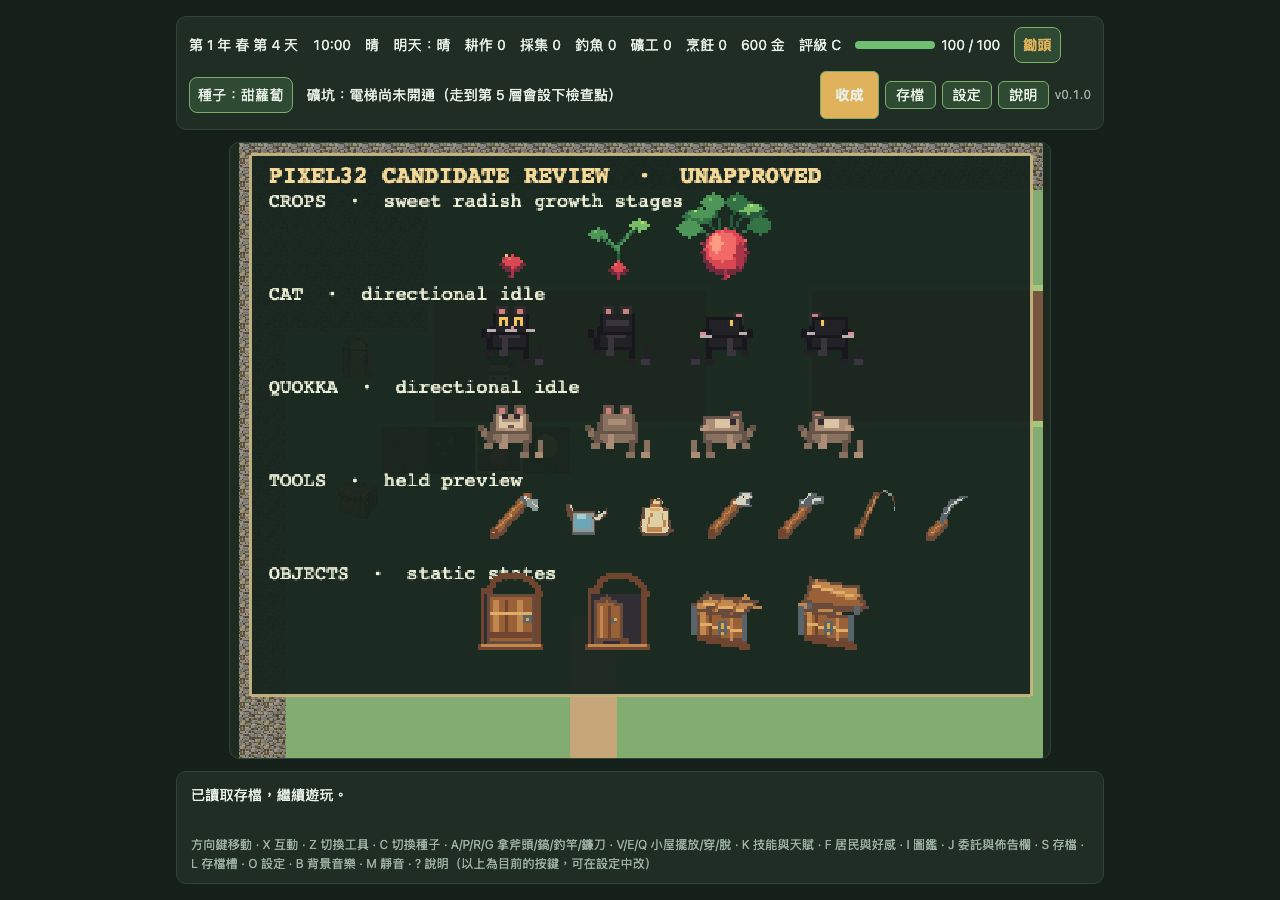
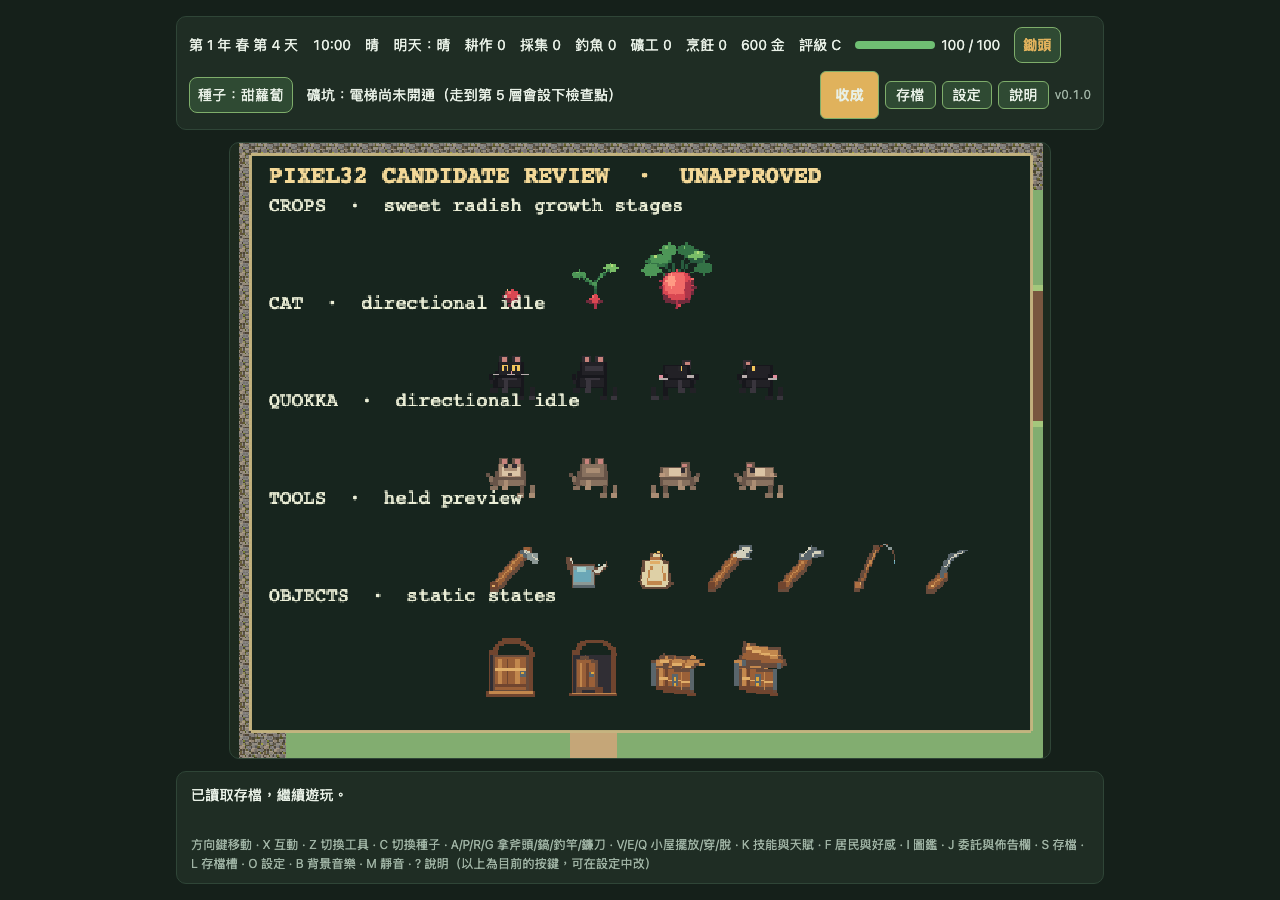
fix: separate candidate preview labels and sprites
* fix: separate candidate preview labels and sprites

* docs: refresh candidate review layout evidence

* fix: clamp candidate animation elapsed times

diff --git a/src/presentation/scenes/MapScene.ts b/src/presentation/scenes/MapScene.ts
@@ -309,7 +309,7 @@ declare global {
       /** DEV-only, unapproved pixel32 map overlay fixture. */
       pixel32CandidateOverlays(): { enabled: boolean; overlays: Pixel32OverlayDebugInfo[] };
       /** DEV-only contact sheet for unapproved crops, pet directions, held tools, and object states. */
-      candidateAssetReview(): { enabled: boolean; items: Array<{ group: string; frame: string; texture: string; x: number; y: number; scale: number }>; limitations: string[] };
+      candidateAssetReview(): { enabled: boolean; items: Array<{ group: string; frame: string; texture: string; x: number; y: number; labelY: number; scale: number }>; limitations: string[] };
       setCandidateAssetReviewVisible(visible: boolean): void;
       /** 玩家目前的走路姿勢（見 walk-pose.ts）。 */
       pose(): { y: number; rotation: number; scaleX: number; scaleY: number; legA: number; legB: number; stretch: number };
@@ -363,7 +363,7 @@ export class MapScene extends Phaser.Scene {
   private pixel32CandidateSprite: Phaser.GameObjects.Image | null = null;
   private pixel32CandidateRuntime = false;
   private pixel32CandidateAssets = false;
-  private pixel32CandidateReviewItems: Array<{ group: string; frame: string; texture: string; x: number; y: number; scale: number }> = [];
+  private pixel32CandidateReviewItems: Array<{ group: string; frame: string; texture: string; x: number; y: number; labelY: number; scale: number }> = [];
   private pixel32CandidateReviewContainer: Phaser.GameObjects.Container | null = null;
   private pixel32OverlayPreview = false;
   private pixel32CandidateOverlaySprites: { descriptor: (typeof PIXEL32_CANDIDATE_OVERLAYS)[number]; image: Phaser.GameObjects.Image }[] = [];
@@ -864,30 +864,31 @@ export class MapScene extends Phaser.Scene {
     ).setScrollFactor(0).setScale(1 / zoom).setDepth(100_000);
     this.pixel32CandidateReviewContainer = board;
     const boardWidth = Math.max(1, camera.width - 16);
-    const boardHeight = Math.max(1, Math.min(366, camera.height - 16));
-    board.add(this.add.rectangle(0, 0, boardWidth, boardHeight, 0x17251e, 0.96).setOrigin(0).setStrokeStyle(2, 0xc6b580, 0.95));
+    const boardHeight = Math.max(1, Math.min(390, camera.height - 16));
+    board.add(this.add.rectangle(0, 0, boardWidth, boardHeight, 0x17251e, 1).setOrigin(0).setStrokeStyle(2, 0xc6b580, 0.95));
     board.add(this.add.text(12, 7, 'PIXEL32 CANDIDATE REVIEW  ·  UNAPPROVED', {
       color: '#f4d998', fontFamily: 'monospace', fontSize: '16px', fontStyle: 'bold',
     }));
 
     const addRow = (group: string, label: string, frames: string[], texture: string, y: number): void => {
-      board.add(this.add.text(12, y - 8, label, { color: '#edf0d8', fontFamily: 'monospace', fontSize: '13px' }));
+      const labelY = y - 20;
+      board.add(this.add.text(12, labelY, label, { color: '#edf0d8', fontFamily: 'monospace', fontSize: '13px' }));
       const available = Math.max(32, boardWidth - 184);
-      const scale = Math.min(2, available / (frames.length * 32 + Math.max(0, frames.length - 1) * 8));
+      const scale = Math.min(1.5, available / (frames.length * 32 + Math.max(0, frames.length - 1) * 8));
       const step = 32 * scale + 8;
       frames.forEach((frame, index) => {
         const x = 176 + index * step;
-        const image = this.add.image(x, y + 20, texture, frame).setOrigin(0.5, 0.5).setScale(scale);
+        const image = this.add.image(x, y + 32, texture, frame).setOrigin(0.5, 0.5).setScale(scale);
         board.add(image);
-        this.pixel32CandidateReviewItems.push({ group, frame, texture, x: Math.round(x), y: y + 20, scale });
+        this.pixel32CandidateReviewItems.push({ group, frame, texture, x: Math.round(x), y: y + 32, labelY, scale });
       });
     };
 
-    addRow('crops', 'CROPS  ·  sweet radish growth stages', ['seed', 'sprout', 'mature'], PIXEL32_CROPS_ATLAS_KEY, 33);
-    addRow('cat', 'CAT  ·  directional idle', ['cat-down-idle', 'cat-up-idle', 'cat-left-idle', 'cat-right-idle'], PIXEL32_PETS_ATLAS_KEY, 96);
-    addRow('quokka', 'QUOKKA  ·  directional idle', ['quokka-down-idle', 'quokka-up-idle', 'quokka-left-idle', 'quokka-right-idle'], PIXEL32_PETS_ATLAS_KEY, 159);
-    addRow('tools', 'TOOLS  ·  held preview', ['tool-hoe', 'tool-can', 'tool-seedbag', 'tool-axe', 'tool-pick', 'tool-rod', 'tool-sickle'], PIXEL32_INTERACTABLES_ATLAS_KEY, 222);
-    addRow('objects', 'OBJECTS  ·  static states', ['door-closed', 'door-open', 'shipbox-closed', 'shipbox-open'], PIXEL32_INTERACTABLES_ATLAS_KEY, 285);
+    addRow('crops', 'CROPS  ·  sweet radish growth stages', ['seed', 'sprout', 'mature'], PIXEL32_CROPS_ATLAS_KEY, 48);
+    addRow('cat', 'CAT  ·  directional idle', ['cat-down-idle', 'cat-up-idle', 'cat-left-idle', 'cat-right-idle'], PIXEL32_PETS_ATLAS_KEY, 114);
+    addRow('quokka', 'QUOKKA  ·  directional idle', ['quokka-down-idle', 'quokka-up-idle', 'quokka-left-idle', 'quokka-right-idle'], PIXEL32_PETS_ATLAS_KEY, 180);
+    addRow('tools', 'TOOLS  ·  held preview', ['tool-hoe', 'tool-can', 'tool-seedbag', 'tool-axe', 'tool-pick', 'tool-rod', 'tool-sickle'], PIXEL32_INTERACTABLES_ATLAS_KEY, 246);
+    addRow('objects', 'OBJECTS  ·  static states', ['door-closed', 'door-open', 'shipbox-closed', 'shipbox-open'], PIXEL32_INTERACTABLES_ATLAS_KEY, 312);
   }
 
   /** 虛擬按鍵直接送出語意動作；按鍵重綁只影響鍵盤 adapter。 */

diff --git a/docs/art/candidates/pixel-movement/gate1-assets/pixel32-animation/preview.js b/docs/art/candidates/pixel-movement/gate1-assets/pixel32-animation/preview.js
@@ -1,4 +1,4 @@
-import { candidateFrameAt, candidateToolFeedback, candidateToolImpactCrossed } from '../../../../../../src/presentation/candidate-sprite-animator.ts';
+import { candidateFrameAt, candidateToolFeedback, candidateToolImpactCrossed, nonNegativeElapsedMs } from '../../../../../../src/presentation/candidate-sprite-animator.ts';
 
 const SHEET_URL = './player-4dir.png';
 const TOOL_ATLAS_URL = '../16bit.png';
@@ -59,7 +59,7 @@ function draw(time) {
   }
   context.fillStyle = '#647e5e'; context.fillRect(126, 187, 4, 4);
 
-  const elapsed = time - motionStartedAt;
+  const elapsed = nonNegativeElapsedMs(motionStartedAt, time);
   const moving = state.motion === 'walk' || state.motion === 'tool';
   const walkMotion = moving && !(state.reducedMotion && state.motion === 'walk');
   const frame = candidateFrameAt(state.direction, walkMotion ? 'walk' : 'idle', walkMotion ? elapsed % CYCLE_MS : 0);
@@ -72,7 +72,7 @@ function draw(time) {
 
   let progress = null;
   if (state.motion === 'tool' && state.actionStartedAt !== null) {
-    progress = Math.min(1, (time - state.actionStartedAt) / TOOL_DURATION_MS);
+    progress = Math.min(1, nonNegativeElapsedMs(state.actionStartedAt, time) / TOOL_DURATION_MS);
     const feedback = candidateToolFeedback(progress, state.direction, state.reducedMotion);
     if (candidateToolImpactCrossed(state.previousProgress, progress)) {
       state.impactSeen = true;

diff --git a/tests/e2e/gate1-candidate-assets-review.spec.ts b/tests/e2e/gate1-candidate-assets-review.spec.ts
@@ -107,6 +107,11 @@ test('captures DEV-only crop, pet, tool, and object candidate review board', asy
   expect(state.review.enabled).toBe(true);
   expect(state.review.items.map((item) => item.frame)).toEqual(expectedFrames);
   expect(state.review.items.every((item) => item.x >= 0 && item.x <= state.viewport.actualCanvasResolution.width)).toBe(true);
+  expect(state.review.items.every((item) => item.y + 16 * item.scale <= state.viewport.actualCanvasResolution.height)).toBe(true);
+  expect(state.review.items.every((item) => item.labelY + 20 <= item.y - 16 * item.scale)).toBe(true);
+  const rowCenters = [...new Set(state.review.items.map((item) => item.y))];
+  const largestFrameScale = Math.max(...state.review.items.map((item) => item.scale));
+  expect(rowCenters.slice(1).every((center, index) => center - rowCenters[index]! >= 32 * largestFrameScale)).toBe(true);
   expect(state.review.items.every((item) => item.scale > 0 && item.texture.startsWith('gate1-pixel32-'))).toBe(true);
   expect(state.sprites.filter((sprite) => sprite.key === 'gate1-pixel32-crops-atlas').map((sprite) => sprite.frame))
     .toEqual(expect.arrayContaining(['seed', 'sprout', 'mature']));

diff --git a/docs/art/candidates/pixel-movement/gate1-assets/integrated-preview.js b/docs/art/candidates/pixel-movement/gate1-assets/integrated-preview.js
@@ -2,6 +2,7 @@ import {
   candidateFrameAt,
   candidateToolFeedback,
   candidateToolImpactCrossed,
+  nonNegativeElapsedMs,
 } from '../../../../../src/presentation/candidate-sprite-animator.ts';
 
 const canvas = document.querySelector('#integrated-preview');
@@ -72,7 +73,7 @@ function drawMap() {
 
 function drawActor(time) {
   const walking = time < state.walkingUntil;
-  const elapsed = walking ? WALK_CYCLE_MS - (state.walkingUntil - time) : 0;
+  const elapsed = walking ? nonNegativeElapsedMs(state.walkingUntil - WALK_CYCLE_MS, time) : 0;
   const frameKey = candidateFrameAt(state.direction, walking ? 'walk' : 'idle', elapsed).frame;
   const frame = animationManifest.frames[frameKey];
   const actorX = state.tileX * TILE + TILE / 2;

diff --git a/src/presentation/candidate-sprite-animator.spec.ts b/src/presentation/candidate-sprite-animator.spec.ts
@@ -3,12 +3,21 @@ import {
   candidateFrameAt,
   candidateToolImpactCrossed,
   candidateToolFeedback,
+  nonNegativeElapsedMs,
   type CandidateDirection,
 } from './candidate-sprite-animator';
 
 const DIRECTIONS: CandidateDirection[] = ['down', 'up', 'left', 'right'];
 
 describe('pixel32 候選動畫器', () => {
+  it('把早於動畫起點的繪製時間夾到零', () => {
+    expect(nonNegativeElapsedMs(100, 97.3)).toBe(0);
+  });
+
+  it('保留動畫起點之後的經過時間', () => {
+    expect(nonNegativeElapsedMs(100, 145)).toBe(45);
+  });
+
   it('四個方向的 idle 都選到該方向的基準影格', () => {
     for (const direction of DIRECTIONS) {
       expect(candidateFrameAt(direction, 'idle', 0)).toEqual({

diff --git a/src/presentation/candidate-sprite-animator.ts b/src/presentation/candidate-sprite-animator.ts
@@ -34,6 +34,14 @@ const WALK_FRAME_MS = 55;
 const TOOL_IMPACT_AT = 0.55;
 const TAU = Math.PI * 2;
 
+/** 若繪製取樣早於動畫起點，將經過時間夾到零。 */
+export function nonNegativeElapsedMs(startedAtMs: number, sampledAtMs: number): number {
+  if (!Number.isFinite(startedAtMs) || !Number.isFinite(sampledAtMs)) {
+    throw new RangeError('動畫起點與取樣時間必須是有限數');
+  }
+  return Math.max(0, sampledAtMs - startedAtMs);
+}
+
 /** 取得候選 sheet 的影格；四方向各有 idle、兩個接地姿勢與 passing 姿勢。 */
 export function candidateFrameAt(
   direction: CandidateDirection,
